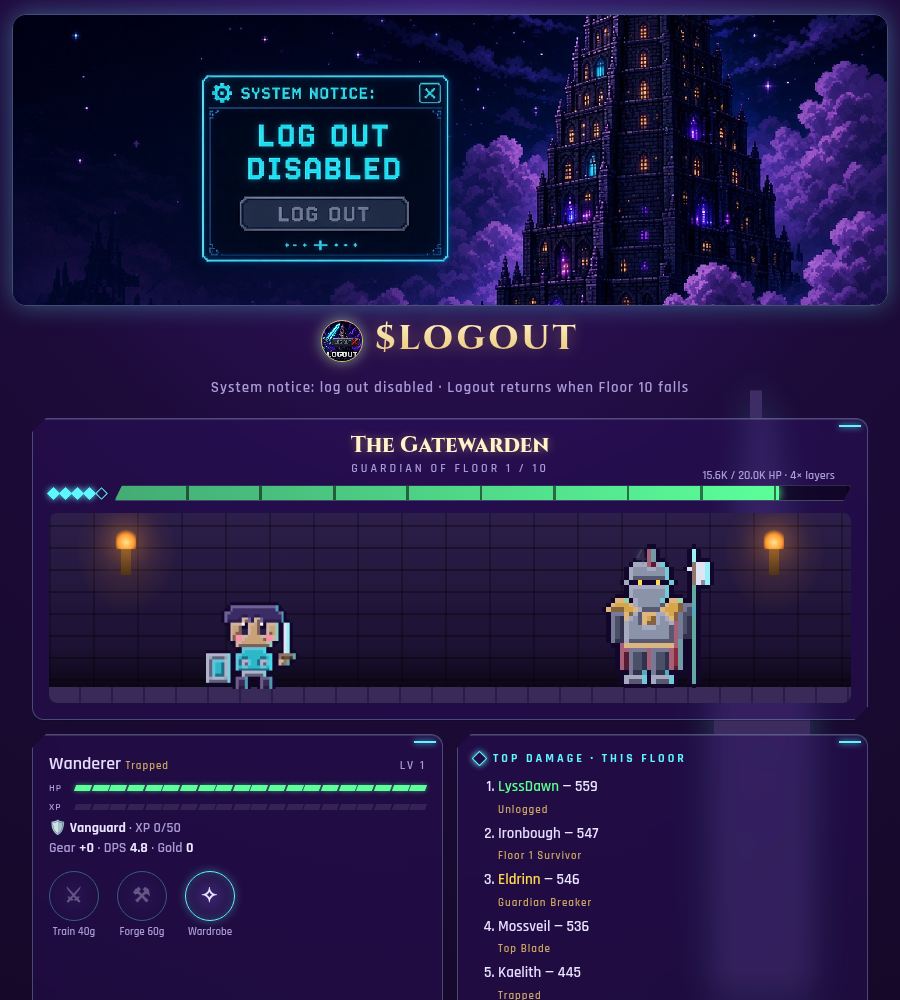
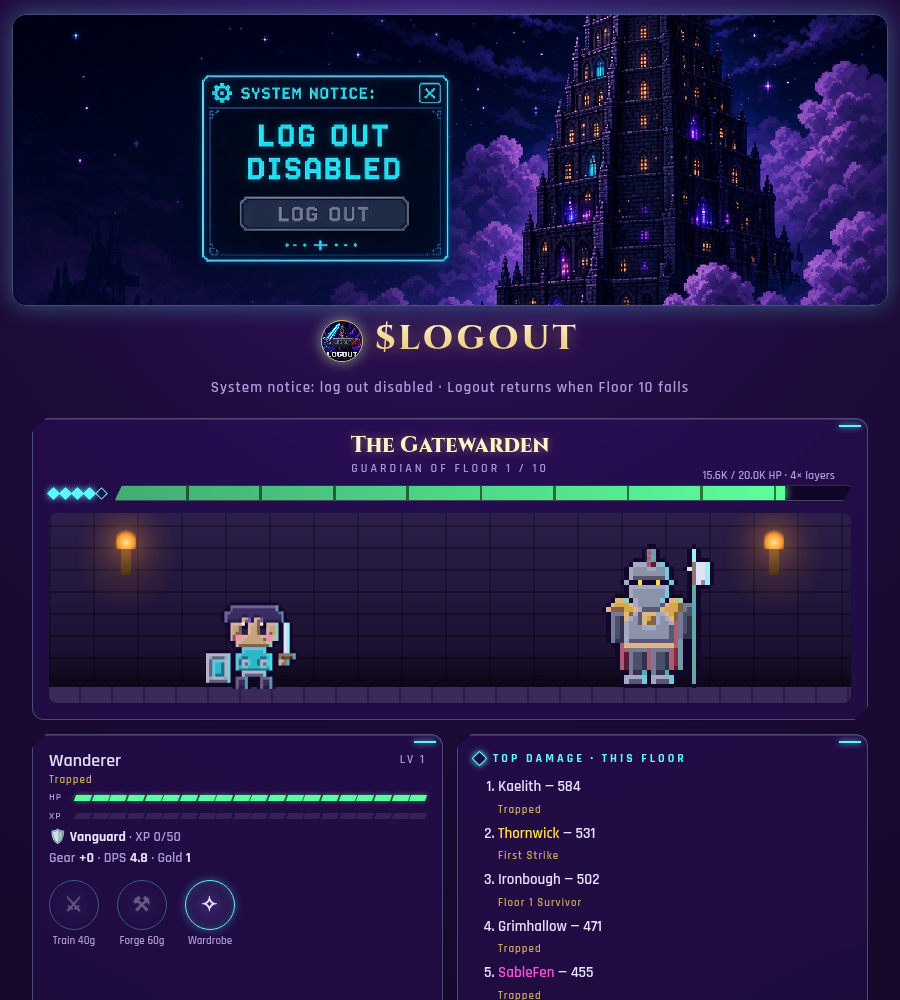
Hotfix: live progression (fractional carry), player on leaderboard, own damage numbers + chronicle, title line, no replayed notices, no white flash

diff --git a/js/main.js b/js/main.js
@@ -1,20 +1,20 @@
-import { CLASSES, newHero, heroDps, levelCost, gearCost, computeProgress, applyXp, bossName, fmt, fmtDur, xpToNext } from './game.js';
+import { CLASSES, newHero, heroDps, levelCost, gearCost, computeProgress, accrue, applyXp, bossName, fmt, fmtDur, xpToNext } from './game.js';
 import { makeBackend } from './storage.js';
 import { OFFLINE_CAP_HOURS, MAX_FLOOR } from '../config.js';
 import { bossSprite, bossIsBig, heroSprite } from './sprites.js';
 import { SLOTS, CREATION_SLOTS, itemsFor, isUnlocked, unlockText, defaultLook, migrateSave, recordClear, equip, titleOf, nameColorOf, fakeProfile, byId, SAVE_VERSION } from './cosmetics.js';
 const $ = id => document.getElementById(id);
 const esc = s => String(s).replace(/[&<>"']/g, c => `&#${c.charCodeAt(0)};`);
-let be, save, floor, pending = 0, cls = 'Vanguard', draftLook = defaultLook('Vanguard'), toastT;
+let be, save, floor, pending = 0, recent = { dmg: 0, gold: 0, xp: 0 }, quietSync = true, cls = 'Vanguard', draftLook = defaultLook('Vanguard'), toastT;
 const log = m => { const d = document.createElement('div'); d.textContent = m; if (m.startsWith('System notice')) d.className = 'rune'; $('log').prepend(d); };
 function notice(m) { const n = document.createElement('div'); n.className = 'notice'; n.innerHTML = `<small>◈ System notice</small>${esc(m)}`; $('notices').append(n); setTimeout(() => n.remove(), 3200); }
 function floorCleared(f) { $('clearedSub').textContent = `${bossName(f)} has fallen`; const c = $('cleared'); c.classList.remove('show'); void c.offsetWidth; c.classList.add('show'); }
 const LAYERS = 5;
 const hpColor = pct => pct > 0.5 ? '#5cff9a' : pct > 0.2 ? '#ffd84f' : '#ff3355';
-function hitFx(dmg) {
+function hitFx(dmg, mine = true) {
   const fx = $('fx'), b = $('boss'), r = b.getBoundingClientRect(), a = fx.getBoundingClientRect();
   const x = r.left - a.left + r.width / 2, y = r.top - a.top + r.height / 2;
-  const d = document.createElement('span'); d.className = 'dmg'; d.textContent = fmt(dmg); d.style.left = (x - 20 + Math.random() * 40) + 'px'; d.style.top = (y - 30) + 'px';
+  const d = document.createElement('span'); d.className = 'dmg' + (mine ? ' me' : ''); d.textContent = fmt(dmg); d.style.left = (x - 20 + Math.random() * 40) + 'px'; d.style.top = (y - 30) + 'px';
   const s = document.createElement('i'); s.className = 'slash'; s.style.left = (x - 60) + 'px'; s.style.top = y + 'px';
   fx.append(d, s); setTimeout(() => { d.remove(); s.remove(); }, 1000);
 }
@@ -52,7 +52,7 @@ function showCreate() {
   $('start').onclick = async () => {
     const h = newHero($('hname').value.trim(), cls); h.look = { ...draftLook };
     save = { version: SAVE_VERSION, heroes: [h], gold: 0, lastTick: Date.now(), progress: { cleared: [], top3: [], rank1: 0 } };
-    await be.saveSave(save); $('create').classList.add('hidden'); startGame();
+    await be.saveSave(save); $('create').classList.add('hidden'); startGame(true);
   };
 }
 function handleClears(clears = [], quiet = false) {
@@ -70,23 +70,25 @@ function openWardrobe() {
   picker($('wpick'), SLOTS, h.look, h.cls, save.progress, async id => { if (equip(save, id)) { await be.saveSave(save); render(); openWardrobe(); } });
   if (!$('wardrobe').open) $('wardrobe').showModal();
 }
-async function startGame() {
+async function startGame(fresh = false) {
   $('game').classList.remove('hidden');
   floor = await be.getFloor(); log(`${save.heroes[0].name} awoke on Floor ${floor.floor}. The guardian stirs.`); log('System notice: log out disabled.');
-  notice('Log out disabled'); setTimeout(() => notice(`Floor ${floor.floor} is open`), 700);
+  if (fresh) { notice('Log out disabled'); setTimeout(() => notice(`Floor ${floor.floor} is open`), 900); } // no replayed notices on reload
   $('lvl').onclick = () => buy('level'); $('gear').onclick = () => buy('gear'); $('wardrobeBtn').onclick = openWardrobe;
   setInterval(tick, 1000); setInterval(sync, 5000); render(); renderLb();
 }
 function tick() {
-  const now = Date.now(), p = computeProgress(save.heroes, save.lastTick, now, OFFLINE_CAP_HOURS);
-  save.lastTick = now; save.gold += p.gold; pending += p.damage; floor.hp = Math.max(0, floor.hp - p.damage);
-  if (applyXp(save.heroes, p.xp).length) log(`System notice: level ${save.heroes[0].level} reached.`);
+  const p = accrue(save, Date.now(), OFFLINE_CAP_HOURS);
+  save.gold += p.gold; recent.dmg += p.damage; recent.gold += p.gold; recent.xp += p.xp; pending += p.damage; floor.hp = Math.max(0, floor.hp - p.damage);
+  if (applyXp(save.heroes, p.xp).length) { log(`System notice: level ${save.heroes[0].level} reached.`); notice(`Level ${save.heroes[0].level} reached`); }
   if (p.damage > 0) hitFx(p.damage); $('boss').classList.add('hit'); setTimeout(() => $('boss').classList.remove('hit'), 120); render();
 }
 async function sync() {
   const r = await be.submitDamage(save.heroes[0].name, pending); pending = 0;
+  if (recent.dmg > 0) { log(`You strike for ${fmt(recent.dmg)} · +${fmt(recent.gold)} gold · +${fmt(recent.xp)} XP`); recent = { dmg: 0, gold: 0, xp: 0 }; }
+  const quiet = quietSync; quietSync = false; // clears that happened before this session are logged, not re-toasted
   if (r.advanced) { const f = r.floor - 1; log(`${bossName(f)} fell beneath many blades. The stair to Floor ${r.floor} lies open.`); log(`System notice: Floor ${r.floor} is open.`); floorCleared(f); setTimeout(() => notice(`Floor ${r.floor} is open`), 2400); }
-  handleClears(r.clears);
+  handleClears(r.clears, quiet);
   floor = await be.getFloor(); await be.saveSave(save); render(); renderLb();
 }
 function buy(kind) {
@@ -103,7 +105,7 @@ function render() {
   $('layers').innerHTML = Array.from({ length: LAYERS }, (_, i) => `<i class="${i < lay ? 'on' : ''}"></i>`).join('');
   const c = hpColor(pct); $('hpfill').style.width = (lay ? inLayer * 100 : 0) + '%'; $('hpfill').style.background = `linear-gradient(90deg, ${c}aa, ${c})`; $('hpfill').style.color = c;
   $('hptext').textContent = `${fmt(floor.hp)} / ${fmt(floor.maxHp)} HP · ${lay}× layers`;
-  $('hname2').innerHTML = `<span style="color:${nameColorOf(h)}">${esc(h.name)}</span> <span class="ttl">${esc(titleOf(h))}</span>`; $('hlv').textContent = `LV ${h.level}`;
+  $('hname2').innerHTML = `<div style="color:${nameColorOf(h)}">${esc(h.name)}</div><div class="ttl">${esc(titleOf(h))}</div>`; $('hlv').textContent = `LV ${h.level}`;
   const hp = 0.85 + 0.15 * Math.abs(Math.sin(Date.now() / 3000)); $('hhp').innerHTML = Array.from({ length: 20 }, (_, i) => `<i class="${i / 20 < hp ? '' : 'off'}"></i>`).join('');
   const xp = h.xp / xpToNext(h.level); $('hxp').innerHTML = Array.from({ length: 20 }, (_, i) => `<i class="${i / 20 < xp ? '' : 'off'}"></i>`).join('');
   $('stats').innerHTML = `${CLASSES[h.cls].icon} <b>${h.cls}</b> · XP ${h.xp}/${xpToNext(h.level)}<br>Gear <b>+${h.gear}</b> · DPS <b>${heroDps(h).toFixed(1)}</b> · Gold <b>${fmt(save.gold)}</b>`;
@@ -112,9 +114,9 @@ function render() {
 }
 async function renderLb() {
   const h = save.heroes[0];
-  $('lb').innerHTML = (await be.leaderboard()).map(r => {
+  $('lb').innerHTML = (await be.leaderboard(h.name)).map(r => {
     const me = r.name === h.name, pr = me ? { title: titleOf(h), color: nameColorOf(h) } : fakeProfile(r.name);
-    return `<li class="${me ? 'me' : ''}"><span style="color:${pr.color}">${esc(r.name)}</span> — ${fmt(r.damage)}<br><span class="ttl">${esc(pr.title)}</span></li>`;
+    return `<li class="${me ? 'me' : ''}" value="${r.rank}"><span style="color:${pr.color}">${esc(r.name)}</span> — ${fmt(r.damage)}<br><span class="ttl">${esc(pr.title)}</span></li>`;
   }).join('');
 }
 boot();

diff --git a/style.css b/style.css
@@ -44,12 +44,12 @@ button.sel{border-color:var(--cy);background:rgba(95,246,255,.15);box-shadow:ins
 #hero{animation:atk 1s steps(2) infinite}.boss{transform:scale(4.5);}.boss.big{transform:scale(5.6);}.boss{animation:bob 1.2s steps(2) infinite}
 @keyframes atk{50%{translate:4px 0}}@keyframes bob{50%{translate:0 -2px}}.hit{filter:brightness(2.5) drop-shadow(0 0 2px #fff)}
 #fx{position:absolute;inset:0;pointer-events:none;z-index:2}
-.dmg{position:absolute;font:700 20px 'Rajdhani';color:#fff;text-shadow:0 0 6px var(--cy),0 2px 0 #000;animation:up 1s ease-out forwards}
+.dmg.me{color:#5ff6ff;text-shadow:0 0 8px #5ff6ff,0 2px 0 #000}.dmg{position:absolute;font:700 20px 'Rajdhani';color:#fff;text-shadow:0 0 6px var(--cy),0 2px 0 #000;animation:up 1s ease-out forwards}
 @keyframes up{to{transform:translateY(-50px);opacity:0}}
 .slash{position:absolute;width:120px;height:6px;border-radius:50%;background:linear-gradient(90deg,transparent,#fff,var(--cy),transparent);box-shadow:0 0 14px var(--cy);animation:slash .3s ease-out forwards}
 @keyframes slash{from{opacity:0;transform:rotate(-35deg) scaleX(.2)}40%{opacity:1}to{opacity:0;transform:rotate(-35deg) scaleX(1.3)}}
 /* hero hud */
-.hudtop{display:flex;justify-content:space-between;align-items:baseline}#hname2{font-size:18px}.lv{font-size:12px;color:var(--mut);letter-spacing:2px}
+.hudtop{display:flex;justify-content:space-between;align-items:flex-start}#hname2{font-size:18px;line-height:1.15}#hname2 .ttl{display:block;margin-top:2px}.lv{font-size:12px;color:var(--mut);letter-spacing:2px}
 .segrow{display:flex;align-items:center;gap:8px;margin:4px 0}.segrow span{width:18px;font-size:10px;letter-spacing:1px;color:var(--mut)}.segrow:last-of-type{margin-bottom:10px}
 .seg{flex:1;display:flex;gap:2px;height:6px}.seg i{flex:1;background:#5cff9a;box-shadow:0 0 5px #5cff9a88;transform:skewX(-20deg)}.seg.xp i{background:var(--cy);box-shadow:0 0 5px var(--cyd)}.seg i.off{background:#ffffff18;box-shadow:none}
 #stats{color:var(--mut);font-size:14px}#stats b{color:var(--txt)}
@@ -59,7 +59,7 @@ ol{padding-left:24px;margin:0}li{margin-bottom:3px}li.me{background:rgba(95,246,
 .log div.rune{color:var(--cy);text-shadow:0 0 8px var(--cyd)}.log div.rune::before{content:'◈ ';color:var(--cy)}
 dialog{color:var(--txt);max-width:92vw}dialog::backdrop{background:#0a0418aa;backdrop-filter:blur(3px)}
 /* system notices */
-#notices{position:fixed;left:50%;top:44%;transform:translateX(-50%);display:flex;flex-direction:column;gap:8px;align-items:center;z-index:20;pointer-events:none}
+#notices{position:fixed;left:50%;top:max(14px,env(safe-area-inset-top));transform:translateX(-50%);display:flex;flex-direction:column;gap:8px;align-items:center;z-index:20;pointer-events:none}
 .notice{min-width:280px;text-align:center;padding:12px 26px;background:rgba(28,14,62,.82);backdrop-filter:blur(14px);-webkit-backdrop-filter:blur(14px);border:1px solid var(--cy);border-radius:10px;box-shadow:0 0 24px var(--cyd);letter-spacing:2px;animation:nin .35s ease-out,nout .5s ease-in 2.6s forwards}
 .notice small{display:block;font-size:10px;letter-spacing:4px;color:var(--cy);text-transform:uppercase}
 @keyframes nin{from{opacity:0;transform:scale(.9)}}@keyframes nout{to{opacity:0;transform:translateY(-10px)}}

diff --git a/js/game.js b/js/game.js
@@ -25,6 +25,16 @@ export function computeProgress(heroes, lastTick, now, capHours = 12) {
   const damage = Math.floor(dps * secs);
   return { secs, capped: raw > secs, damage, gold: Math.floor(damage * 0.1), xp: Math.floor(damage * 0.05) };
 }
+/** Live accrual with fractional carry (fixes per-tick flooring that kept low-DPS heroes at 0 gold/XP). Mutates save.lastTick/save.carry. */
+export function accrue(save, now, capHours = 12) {
+  const raw = Math.max(0, (now - save.lastTick) / 1000), secs = Math.min(raw, capHours * 3600);
+  const c = save.carry || (save.carry = { dmg: 0, gold: 0, xp: 0 });
+  const d = totalDps(save.heroes) * secs + c.dmg, damage = Math.floor(d); c.dmg = d - damage;
+  const g = damage * 0.1 + c.gold, gold = Math.floor(g); c.gold = g - gold;
+  const x = damage * 0.05 + c.xp, xp = Math.floor(x); c.xp = x - xp;
+  save.lastTick = now;
+  return { secs, capped: raw > secs, damage, gold, xp };
+}
 export function applyXp(heroes, xp) {
   if (!heroes.length) return [];
   const per = Math.floor(xp / heroes.length), ups = [];

diff --git a/js/storage.js b/js/storage.js
@@ -29,7 +29,9 @@ export class LocalBackend {
     const w = this._w(); w.dmg[playerName] = (w.dmg[playerName] || 0) + amount; w.hp -= amount;
     const advanced = this._adv(w); const clears = w.clears; w.clears = []; this._sw(w); return { floor: w.floor, hp: w.hp, maxHp: floorBossHp(w.floor), advanced, accepted: amount, clears };
   }
-  async leaderboard() { const w = this._w(); return Object.entries(w.dmg).map(([name, damage]) => ({ name, damage })).sort((a, b) => b.damage - a.damage).slice(0, 10); }
+  async leaderboard(me = null) { // top 10, plus the player's own row (with rank) if they are outside it
+    const all = Object.entries(this._w().dmg).map(([name, damage]) => ({ name, damage })).sort((a, b) => b.damage - a.damage).map((r, i) => ({ ...r, rank: i + 1 }));
+    const top = all.slice(0, 10); if (me && !top.some(r => r.name === me)) top.push(all.find(r => r.name === me) || { name: me, damage: 0, rank: all.length + 1 }); return top; }
 }
 
 // Future: add SupabaseBackend with the same interface and select it here.

diff --git a/index.html b/index.html
@@ -1,5 +1,6 @@
 <!doctype html><html lang="en"><head><meta charset="utf-8"><meta name="viewport" content="width=device-width,initial-scale=1">
 <title>$LOGOUT — Idle Tower</title>
+<style>html,body{background:#140826;color:#e9e4ff}</style>
 <link rel="preconnect" href="https://fonts.googleapis.com"><link href="https://fonts.googleapis.com/css2?family=Cinzel:wght@600;800&family=Rajdhani:wght@500;600;700&display=swap" rel="stylesheet">
 <link rel="stylesheet" href="style.css">
 <link rel="icon" type="image/png" href="assets/favicon.png"><link rel="apple-touch-icon" href="assets/apple-touch-icon.png">
